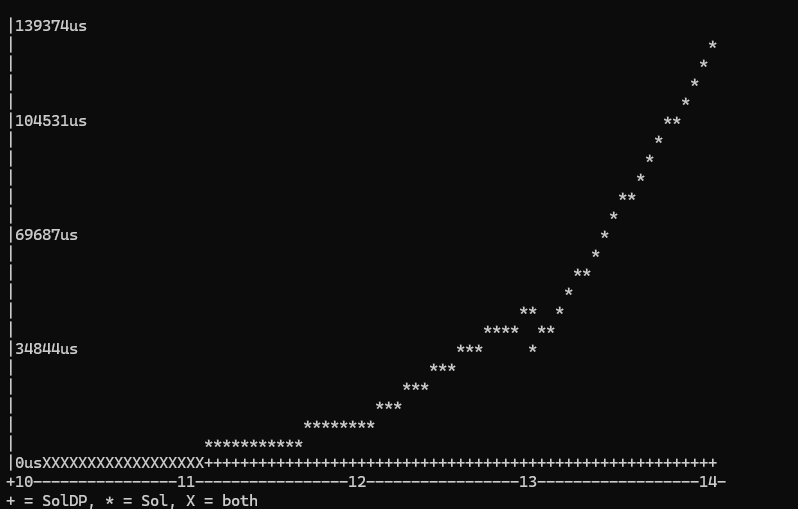
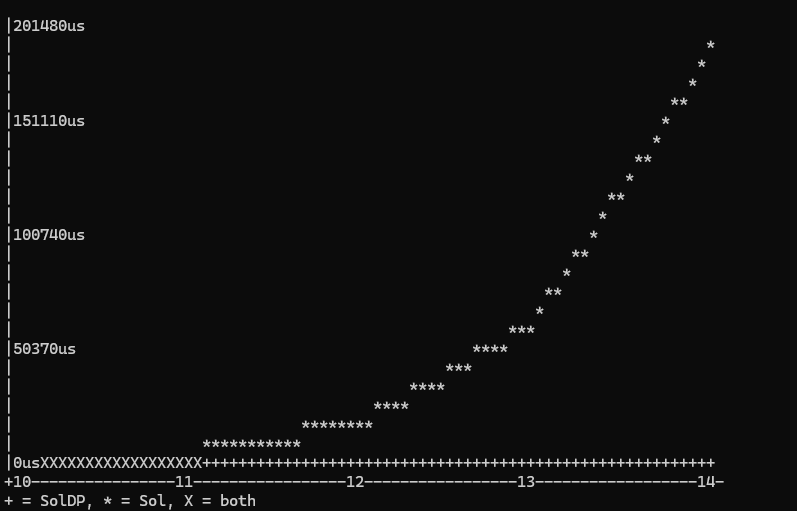
lab6t

diff --git a/Lab6CPP/lab6.cpp b/Lab6CPP/lab6.cpp
@@ -194,7 +194,6 @@ void parse_expr(const string& s)
 
 RSol run_solve_rec() 
 {
-    mem.clear();  
     MinMax r = solve(0, nums.size()-1);
     string expr = str(r.mx_node);
     return { r.mx, clean_expr(expr) };
